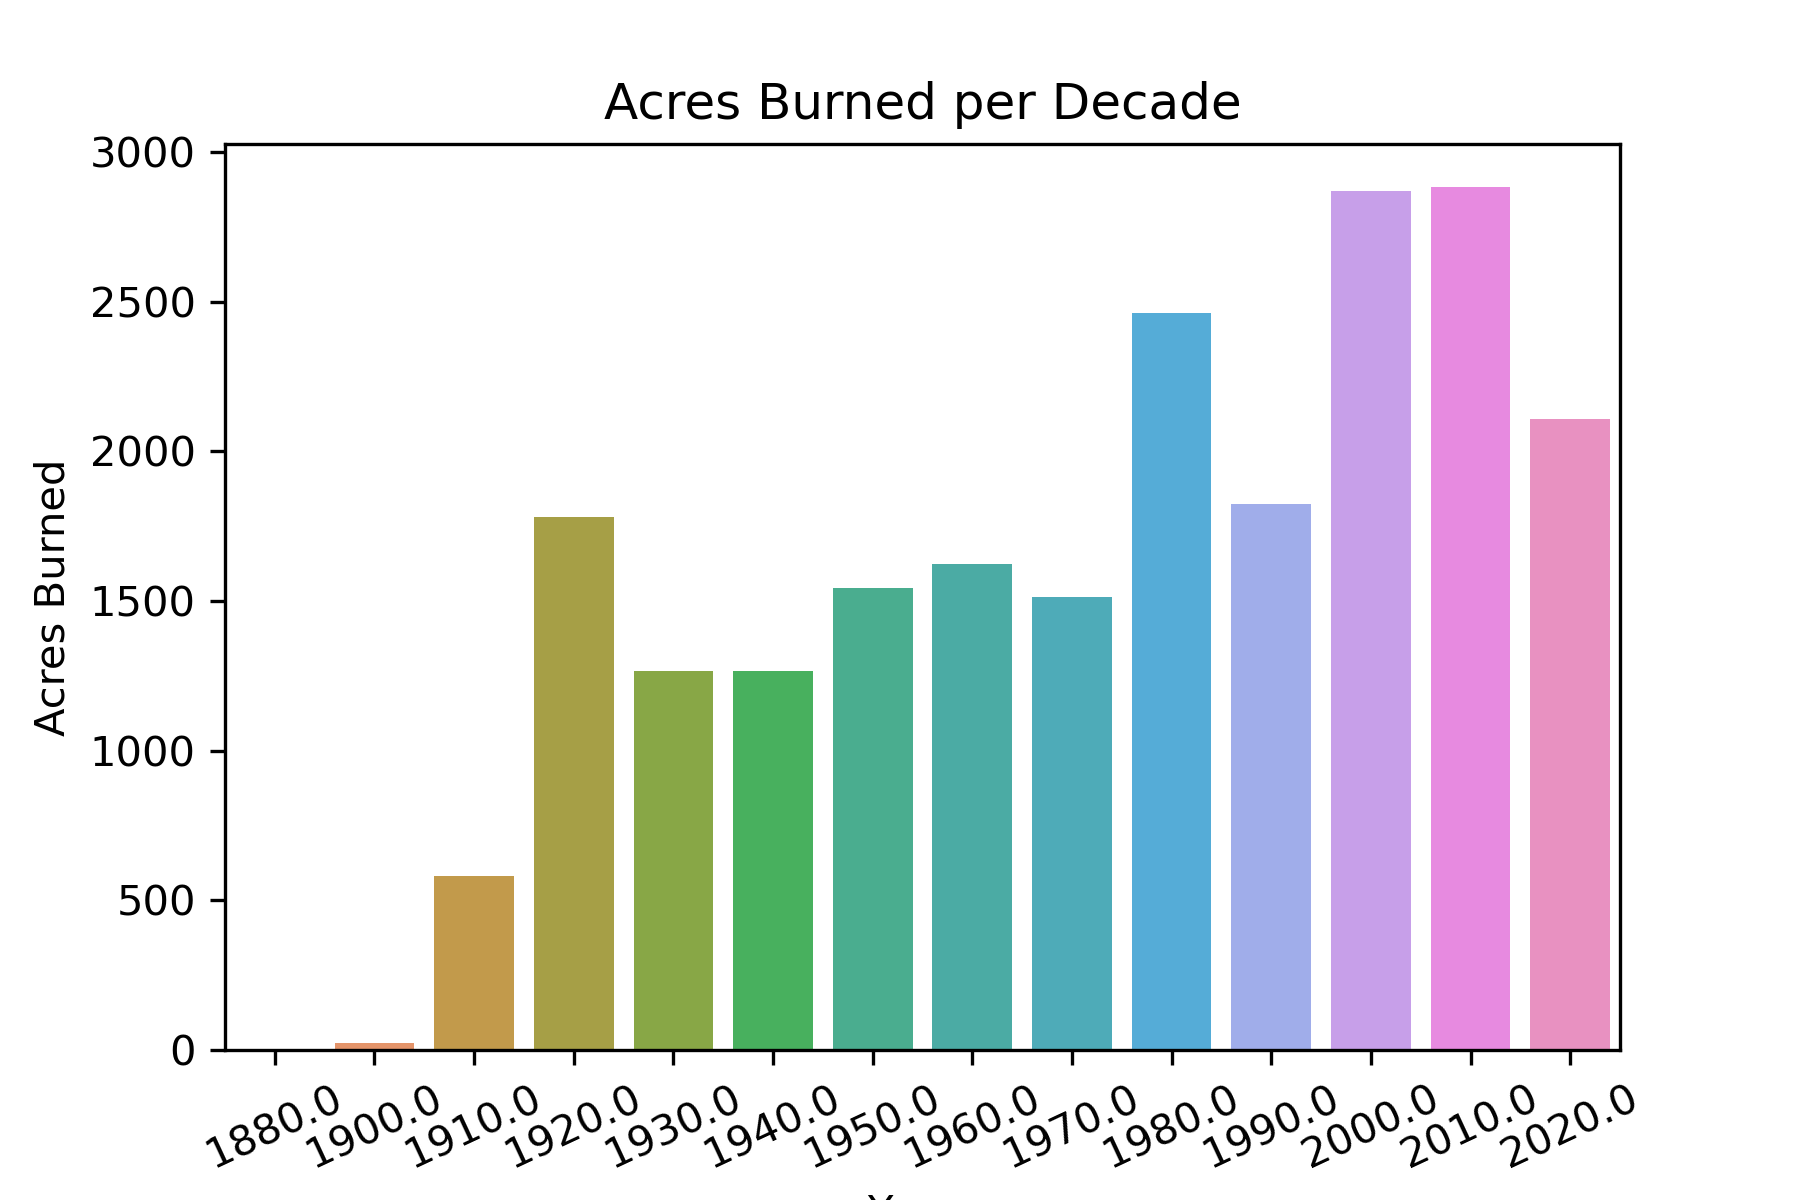
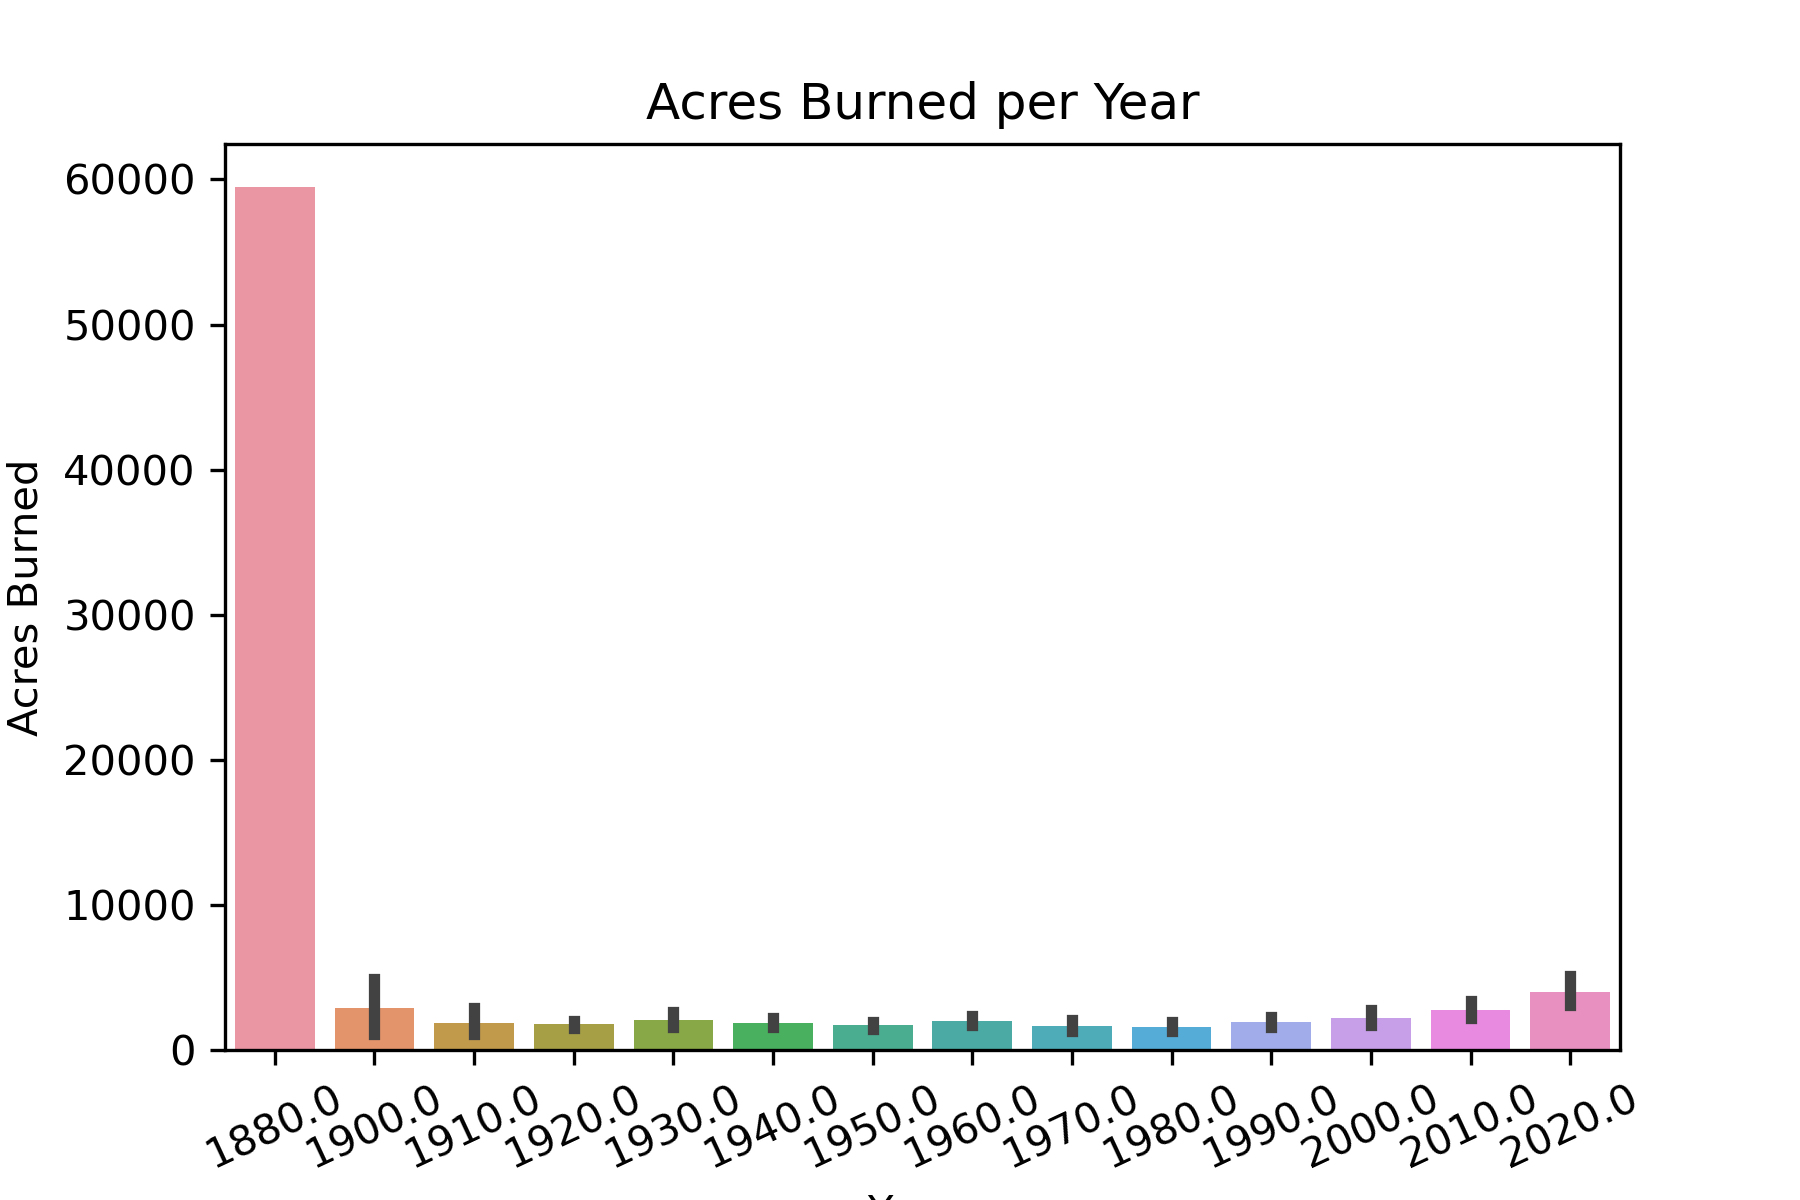
submission2

Changed region(s): [[0.0, 0.1542, 0.9022, 0.8942], [0.3422, 0.0617, 0.6844, 0.1233], [0.0311, 0.0925, 0.1244, 0.185]]

diff --git a/groupingbycounties.py b/groupingbycounties.py
@@ -27,6 +27,7 @@ number_by_county=number_by_county.to_frame()
 
 number_by_county=number_by_county.reset_index()
 
+#merging the population by county to the number of fires per county
 number_by_county=number_by_county.merge(population, on="COUNTY", how="outer", indicator=True)
 
 #fires in each county each year
@@ -40,91 +41,45 @@ acres_burned_yearly=huge_fire_data.groupby("YEAR_")["GIS_ACRES"].sum()
 #ammount of acres per county in all of time 
 county_tot_acres= total_acres.groupby("COUNTY").sum()
 
+#cleaning up some columns
 number_by_county= number_by_county.drop(["Unnamed: 0", "_merge", "state"], axis=1)
- 
-#heat map of fires to see if some counties have more fires than others, HISTOGRAM OR MAP
-#heat map heat map! counties with a lot of fires might be the big counties 
-#are there a lot more fires in some than others, where are located, 
 
-#COUNT FIRES IN LAST TWENTY YEARS--> scatterplot
-
-#high pop plus high fires
-
-#MEASURE OF FIRES BY LAND AREAS maP OF CALI TAKE ALAND VARIABLE SQ METERS  TAKE NUMBER OF FIRES/SQMETERS gives you number of fires per square meters multiple by 1MILLION Number of fires by 1m sq meters
-#POP DENSITY AND FIRE DENSITY = SCATTER THAT 
 
 #%%
-heatmap_data=number_by_county[['COUNTY', "Fires"]]
-
-fig,ax1= plt.subplots(dpi=300)
-fig.suptitle("TITLE")
-sns.heatmap(heatmap_data, annot=True, fmt=".0f", ax=ax1)
-ax1.set_xlabel("x")
-ax1.set_ylabel("y")
-fig.tight_layout()
-
-#%%
-
+#Seeing when the top 15 fires occured 
 top15fires=total_acres.sort_values("GIS_ACRES").iloc[-15:]
 print("\nTop 15 fires in California:","\n",top15fires)
+
+#seeing the counties that have the most amount of fires
 top10counties=number_by_county.sort_values("Fires").iloc[-10:]
 print("\nTop 10 counties with the most amount of fires:","\n" ,top10counties)
 
 #%%
-#GRAPH THE WORST FIRE BY ACRE AND SEE WHEN IT WAS COMPARED TO THE OTHER ONES
-
+#plotting the worst fires ever
 fig, ax1= plt.subplots()
 sns.barplot(x="YEAR_", y="GIS_ACRES", data=top15fires.reset_index(), ax=ax1)
 plt.ylabel('Acres Burned')
 plt.xlabel('Years')
 plt.title('Worst Fires')
-fig.savefig('WORST.png', dpi=500)
+fig.savefig('Worst_fires.png', dpi=300)
 
 
 #%%
-
+#plotting acres burned over all the years
 fig, ax1= plt.subplots()
 sns.barplot(x="YEAR_", y="GIS_ACRES", data=acres_burned_yearly.reset_index(), ax=ax1)
 plt.ylabel('Acres Burned')
 plt.xlabel('Years')
-plt.xticks(rotation=25)
+plt.xticks(rotation=90, fontsize=3.5)
 plt.title('Acres Burned per Year')
 fig.savefig('Acres_over_years.png', dpi=300)
 
-#%%
-fig, ax1= plt.subplots(dpi=300)
-fig.suptitle("HEATMAAAAAP")
-sns.heatmap(grid, annot=True, fmt=".0f", ax=ax1)
-ax1.set_xlabel("Years")
-ax1.set_ylabel("Acres")
-fig.tight_layout()
-fig.savefig("heatmap.png")
 
 #%%
-
-
-fires_by_county=pd.read_csv("fires_by_counties.csv")
-
-#WHAT I AM TRYING T0 DO IS SEE THE FIRES IN EACH COUNTY IN THE LAST TWO DECADES AND SEE THE POPULATION TOO
-
-last20years=huge_fire_data.sort_values("YEAR_").round(-1)
-print(last20years)
-
-fig, ax1= plt.subplots()
-sns.barplot(x="YEAR_", y="GIS_ACRES", data=last20years.reset_index(), ax=ax1)
-plt.ylabel('Acres Burned')
-plt.xlabel('Years')
-plt.xticks(rotation=25)
-plt.title('Acres Burned per Year')
-fig.savefig('Acres over years.png', dpi=300)
-
-#number_by_county = huge_fire_data.groupby("COUNTY").size()
-
-#%%
-
+#plotting the amount of historical fires for population in counties 
 fires_pop=sns.scatterplot(data = number_by_county , x = "Fires", y = "Population")
-fires_pop.set_title("Amount of Historical Fires per population in counties")
-fires_pop.savefig("population_counties.png")
+fires_pop.set_title("Amount of Historical Fires by population in counties")
+plt.savefig("population_counties.png")
 
 #%%
-sns.heatmap()
+

diff --git a/README.md b/README.md
@@ -5,8 +5,10 @@ Created on Tue May  4 12:41:42 2021
 
 @author: beyzagurler
 """
+This repository analyzes historical fires in California. It demonstrates how fires have been getting more and more prevalent and burn more acres than ever before. It also shows that fires have been impacting places with higher populations. 
 
 Getting the Data:
+
 Perimeters for California fires can be obtained from California's State Geoportal. This data contains both the csv file and the shapefile. The link I utilized is: https://gis.data.ca.gov/datasets/CALFIRE-Forestry::california-fire-perimeters-1/data?geometry=-151.022%2C31.426%2C-87.741%2C43.578&layer=0
 California County Boundaries can also be found on California's State Geoportal. This data also contains both the csv file and the shapefile. The link I used is: https://gis.data.ca.gov/datasets/8713ced9b78a4abb97dc130a691a8695_0?geometry=-150.643%2C31.049%2C-87.361%2C43.258
 Population Data for each county can be obtained from the Census using the population.py script and would only need an individualized key_value.
@@ -23,4 +25,6 @@ The population.py script obtains the population data for each county in Californ
 
 The bins.py scrip starts the analysis. It groups the fires by decades and gives an output of all the fires in California for each decade. It also creates a barplot of the amount of fires by decade.
 
-The groupingbycounties.py script continues the analysis. It gives a list of the top 15 fires in California by the amount of acres burned as well as the top 10 counties with the amount amount of fires. These show that the counties with higher populations tend to have higher amounts of fires (with the exception of Siskiyou County ("093") and Tulare County ("107")). The top 15 fires in California are almost all completely in the more recent years (2002-2018) with the exception of one fire in 1987 in Siskiyou County. The top 15 fires were determined by the amount of acres that were burned in a single incident. 
+The groupingbycounties.py script continues the analysis. It gives a list of the top 15 fires in California by the amount of acres burned as well as the top 10 counties with the amount amount of fires. These show that the counties with higher populations tend to have higher amounts of fires (with the exception of Siskiyou County ("093") and Tulare County ("107")). The top 15 fires in California are almost all completely in the more recent years (2002-2018) with the exception of one fire in 1987 in Siskiyou County. The top 15 fires were determined by the amount of acres that were burned in a single incident. This script creates a few plots. The first one is called Worst_fires.png and is a visualization of the top 15 fires. The graph "acres_over_years.png" shows the amount of acres burned for each year and it can be seen that it has been growing exponentially for more recent years.
+
+Join.qgz also generates a heat map of counties with the most amount of fires. The darker the red on the map is, the higher the count of historical fires. It shows that smaller counties tend to have more fires and also shows how the counties around them are affected. It tells us about which counties are able to contain fires as well as which counties have a harder time with containment (it can be seen in the way the counties around them have higher numbers of fires as well). 
